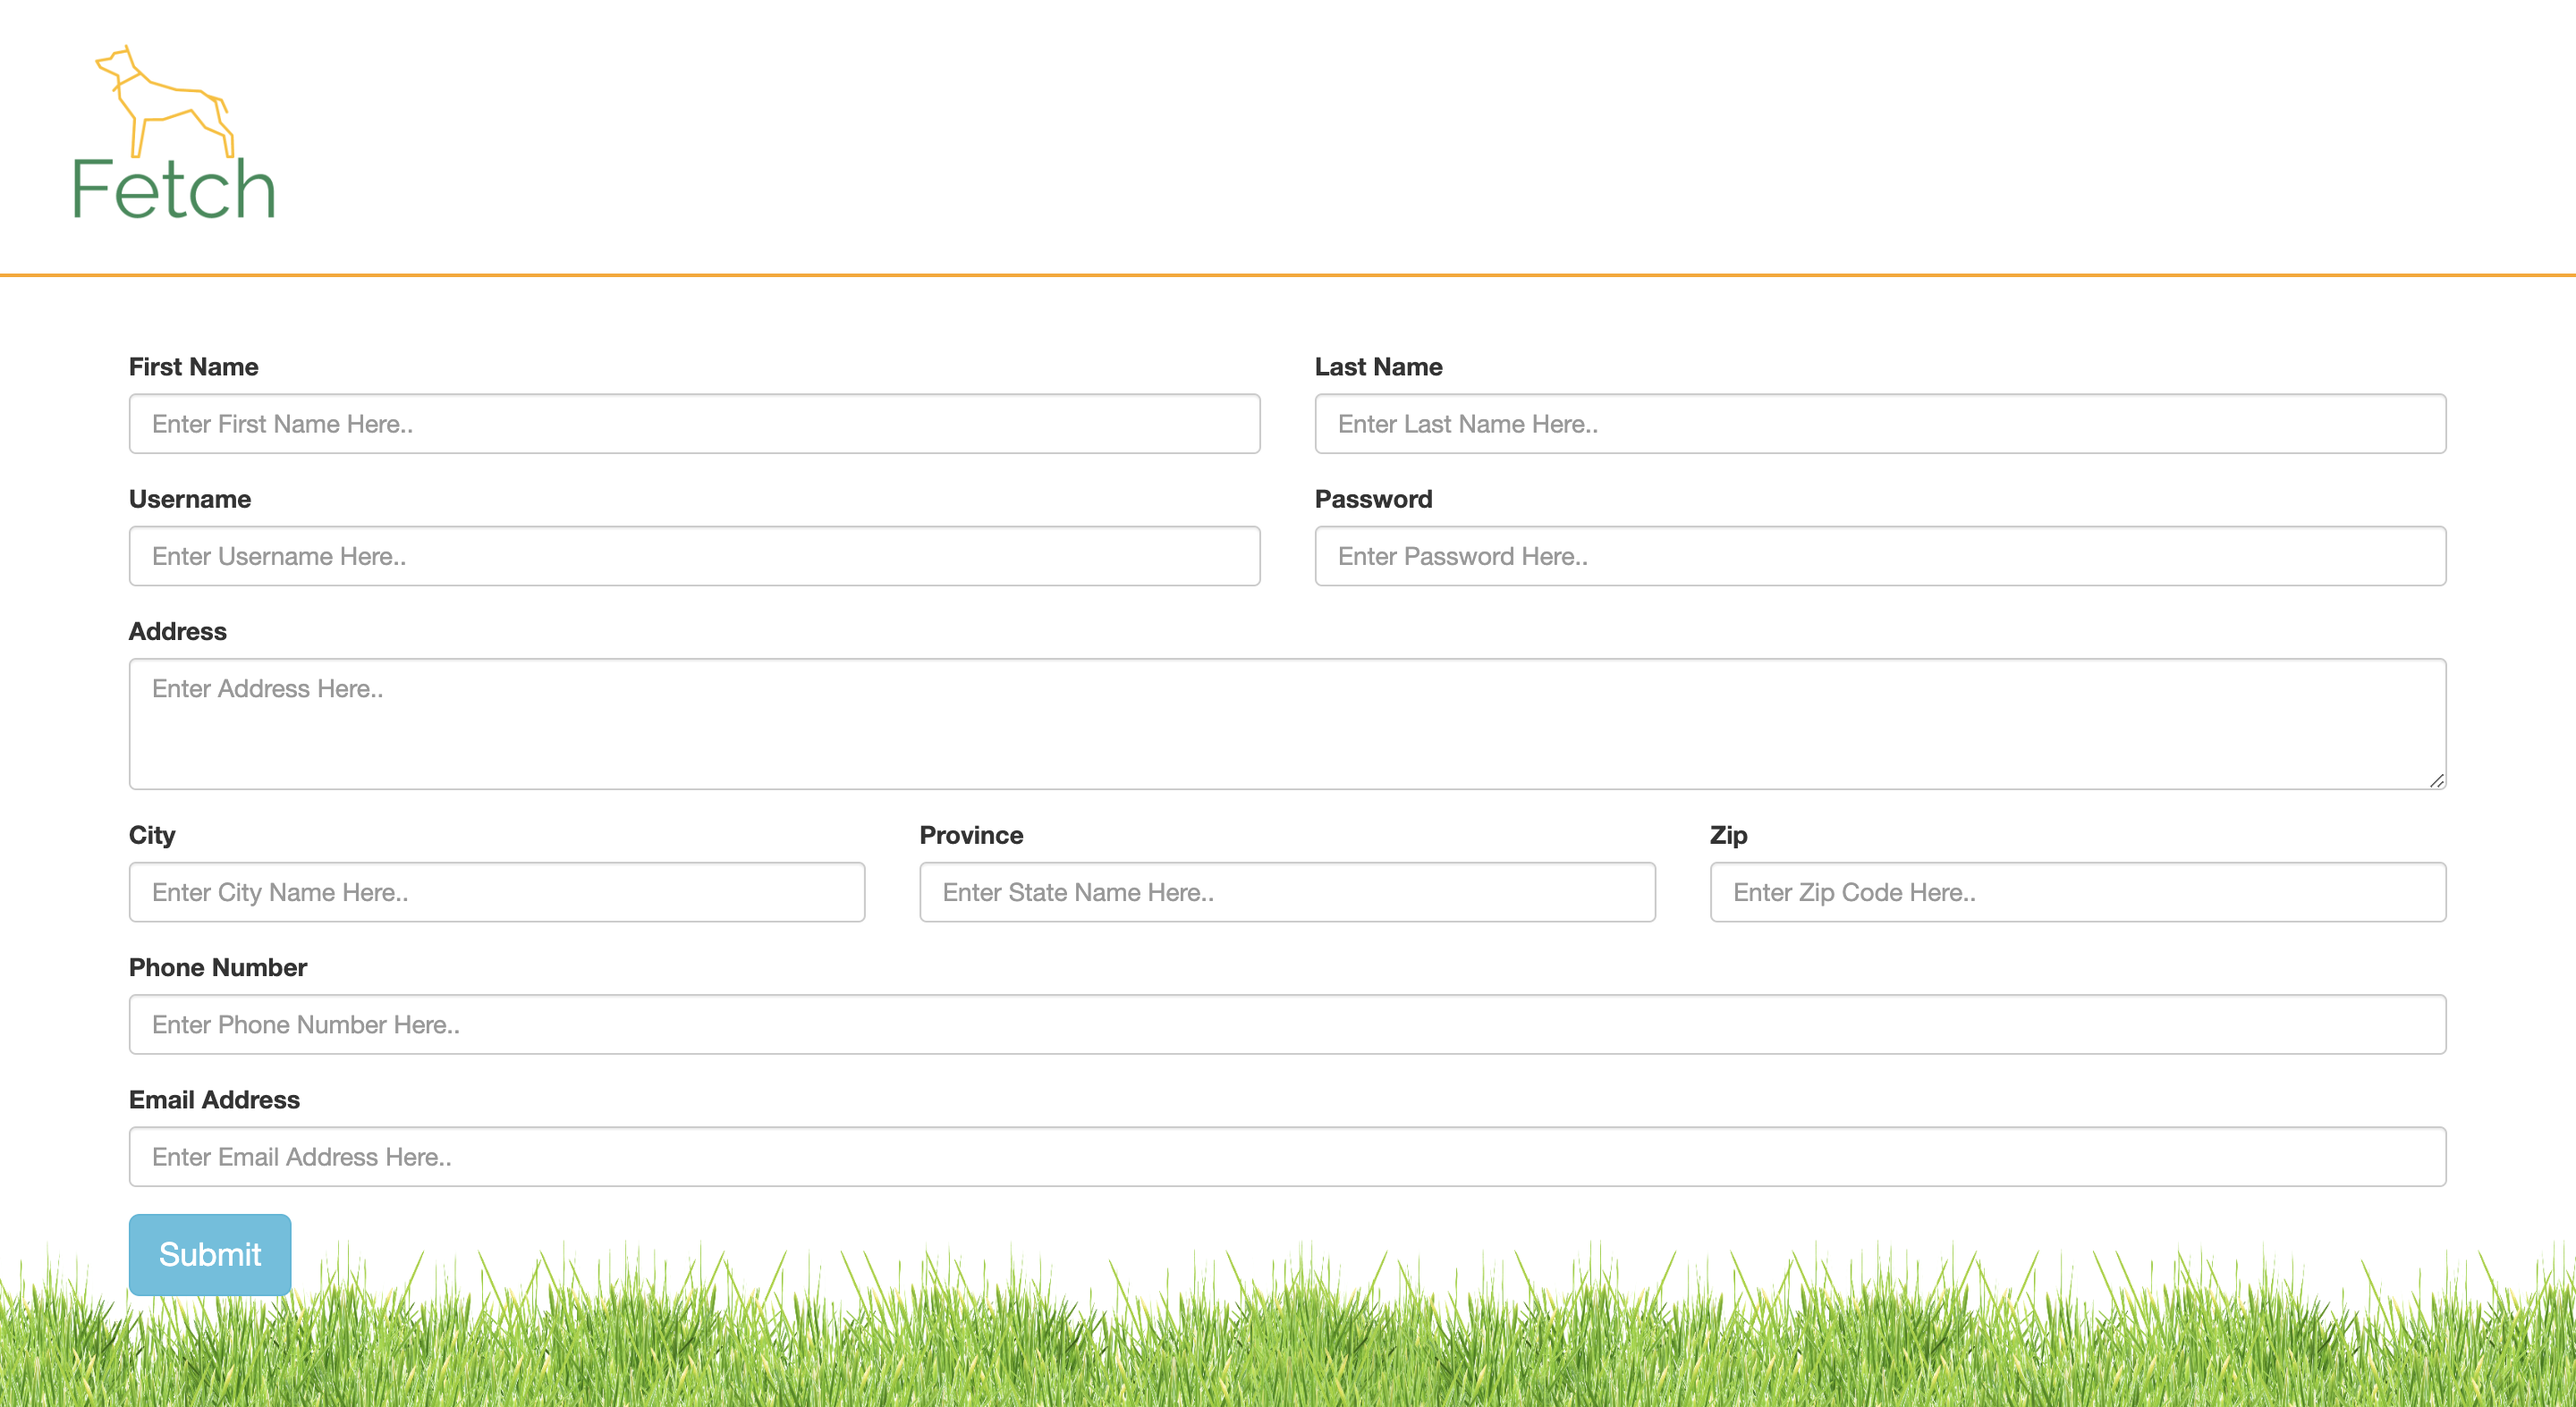
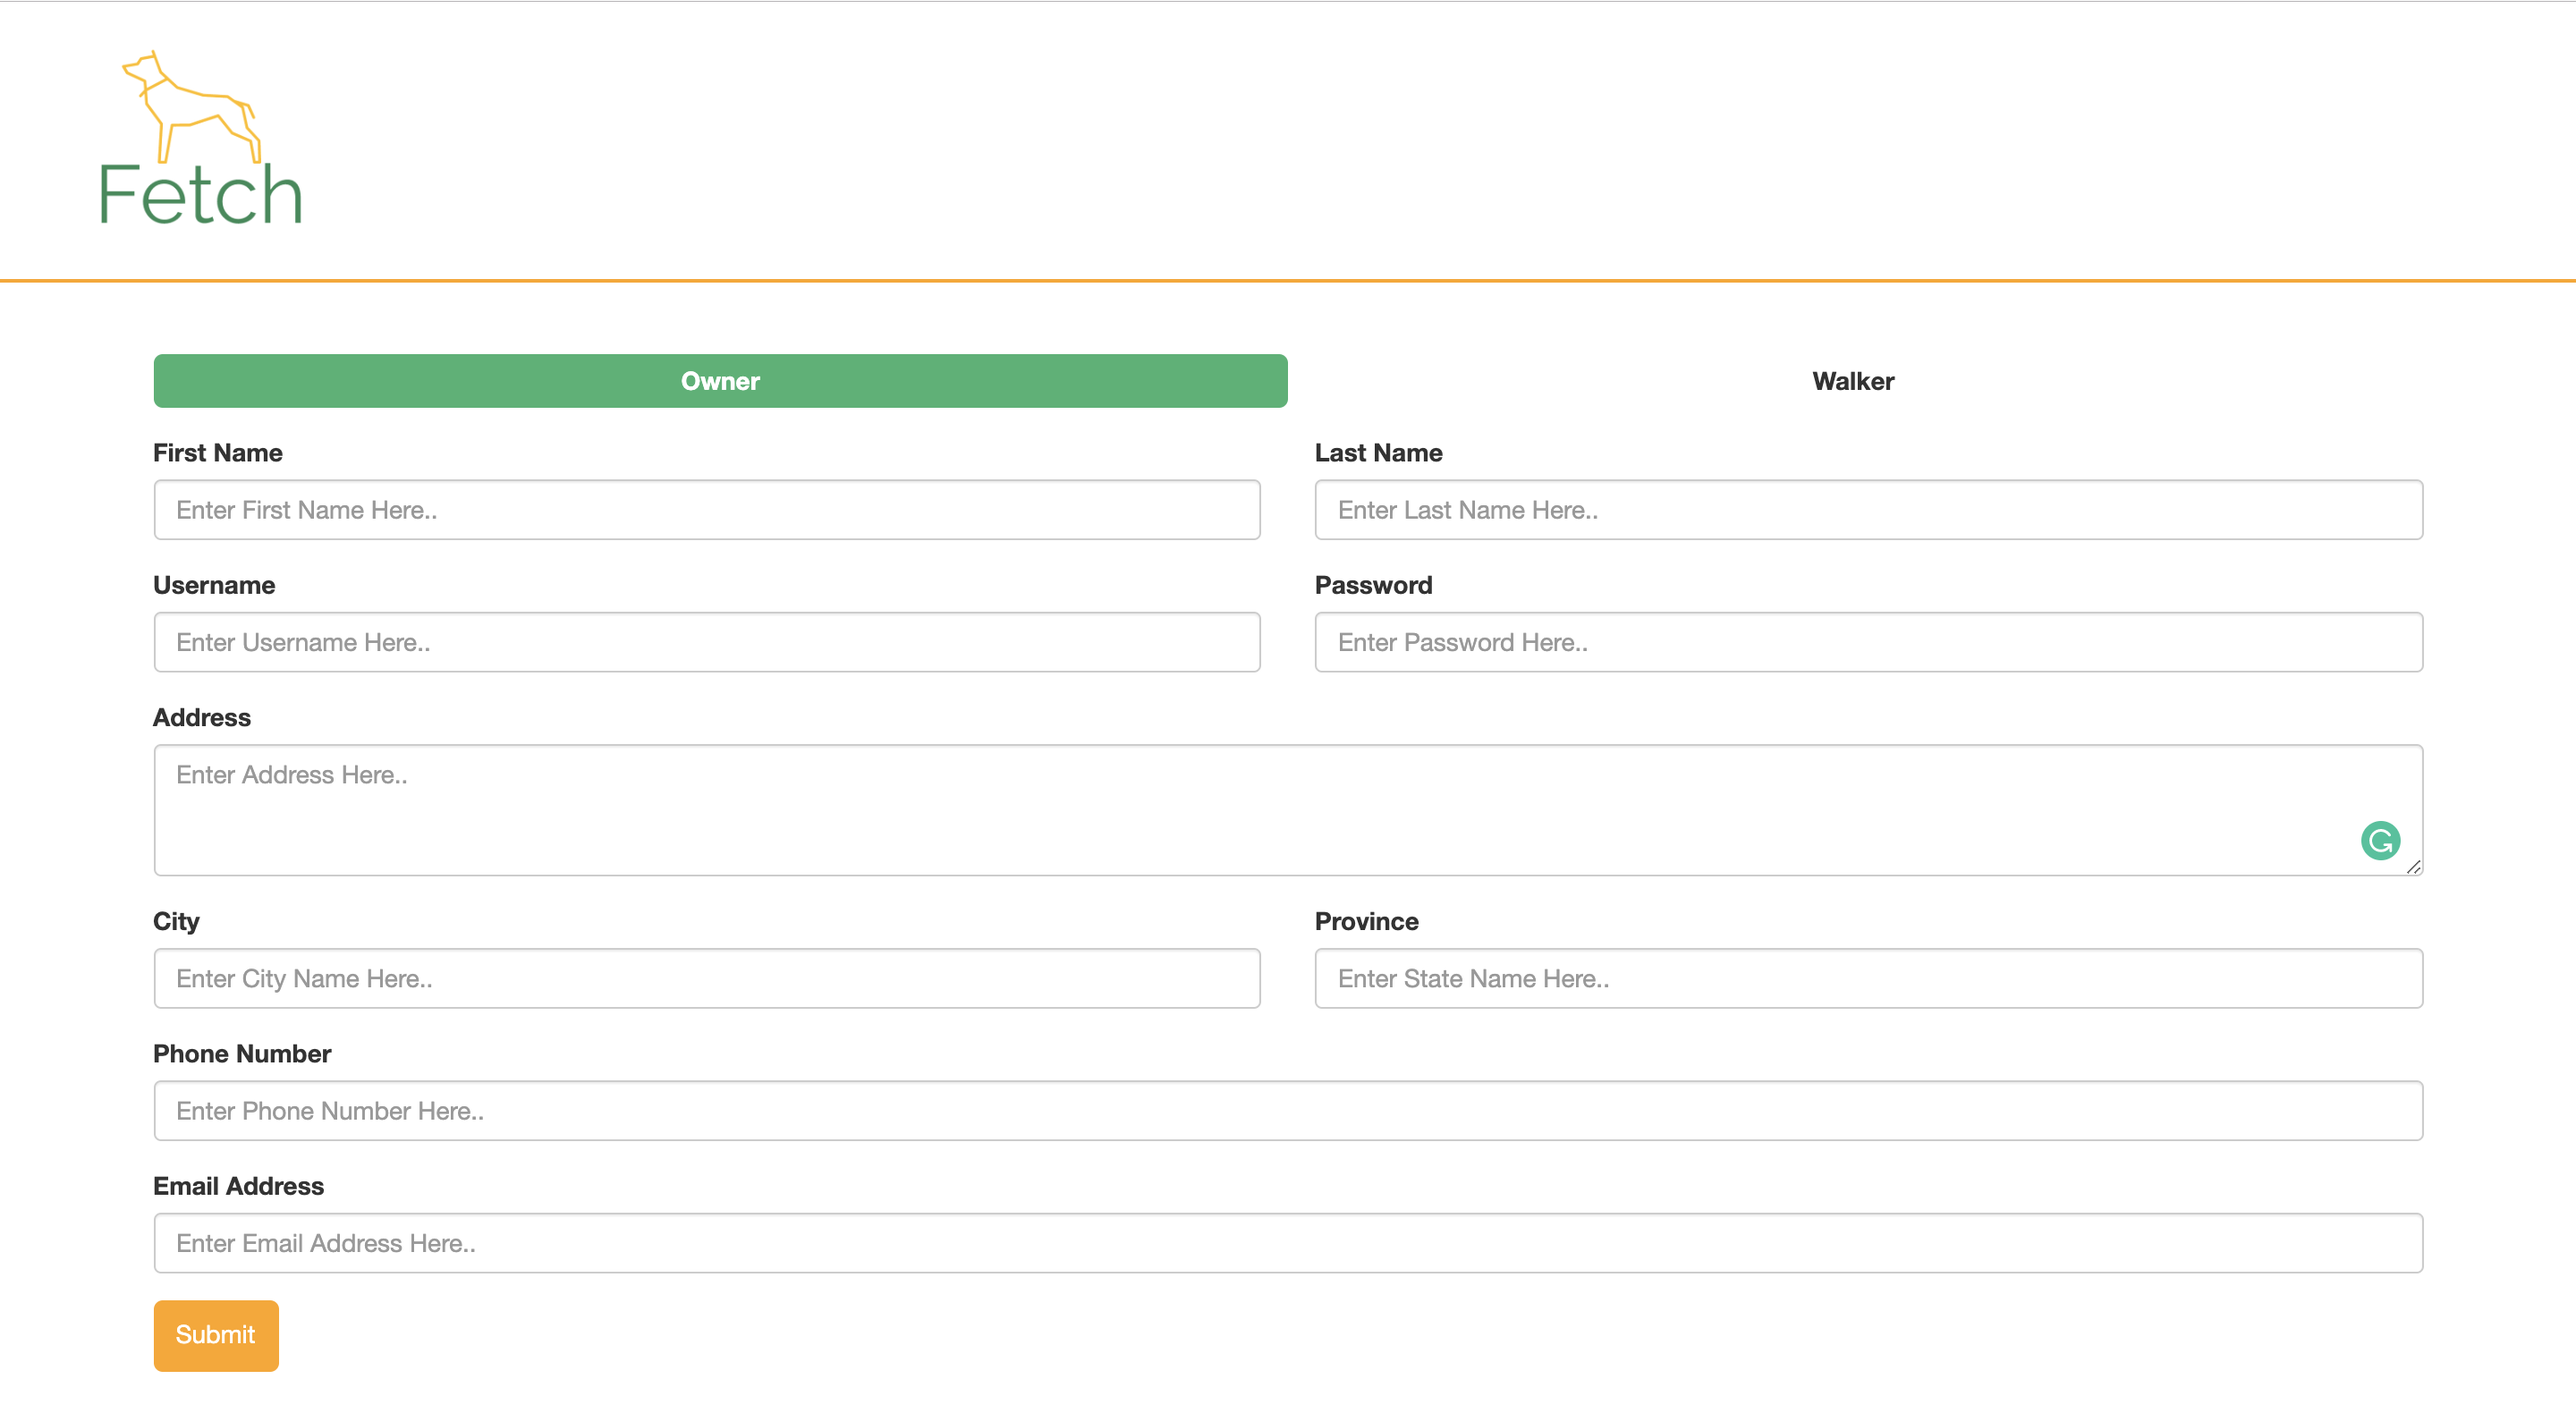
updating readme

diff --git a/README.md b/README.md
@@ -6,14 +6,13 @@ A dog walking application.
 
 ## Login 
 
-Open <code>index.html</code> and you have the option to sign in as a Dog, Walker, User or to register a new user. 
+Upon running the application, the login view will show
 
 ![](readme/index.png)
 
+<br>
 
-Registering a new user takes you to another page to select the type of user you are registering (Dog or Walker). 
-
-![](readme/register.png)
+Registering a new user takes you to the signup page with the option to select the type of user you are registering (Owner or Walker) and the regular signup forms. 
 
 ![](readme/signup.png)
 
@@ -25,25 +24,7 @@ To login as a user, from the <code>index.html</code> select the corresponding us
 
 ![](readme/login.png)
 
-
-
-Login credentials are case sensitive.
-
----
-
-<strong>To login as Dog user:</strong>
-
-Username: user
-
-Password: user
-
----
-
-<strong>To login as Walker user: </strong>
-
-Username: user2
-
-Password: user2
+![](readme/signup2.png)
 
 ---
 
@@ -55,6 +36,9 @@ Password: admin
 
 ---
 
+Otherwise have to signup as a walker or owner to login. 
+
+<br>
 
 ## User functionality
 
@@ -62,17 +46,21 @@ The user can do three things: view and edit their profile, request a walk, and v
 
 <br>
 
-### Dog User
+### Owner User
 
-Once you sign in as a Dog user, this takes the user to the User Profile page. 
+Once you sign in as a Owner user, you will be redirected to the user profile. 
 
-![](readme/dogprofile.png)
+![](readme/ownerprofile.png)
+
+<br>
+
+The user can edit their profile, view their dog's profile, delete their account, signout. 
+
+![](readme/ownerprofileedit.png)
 
 <br>
 
-The user can edit their profile, their dog's profile, delete their account, signout. 
-
-<br>
+------- did up to here
 
 <strong>Request Walker </strong>
 
